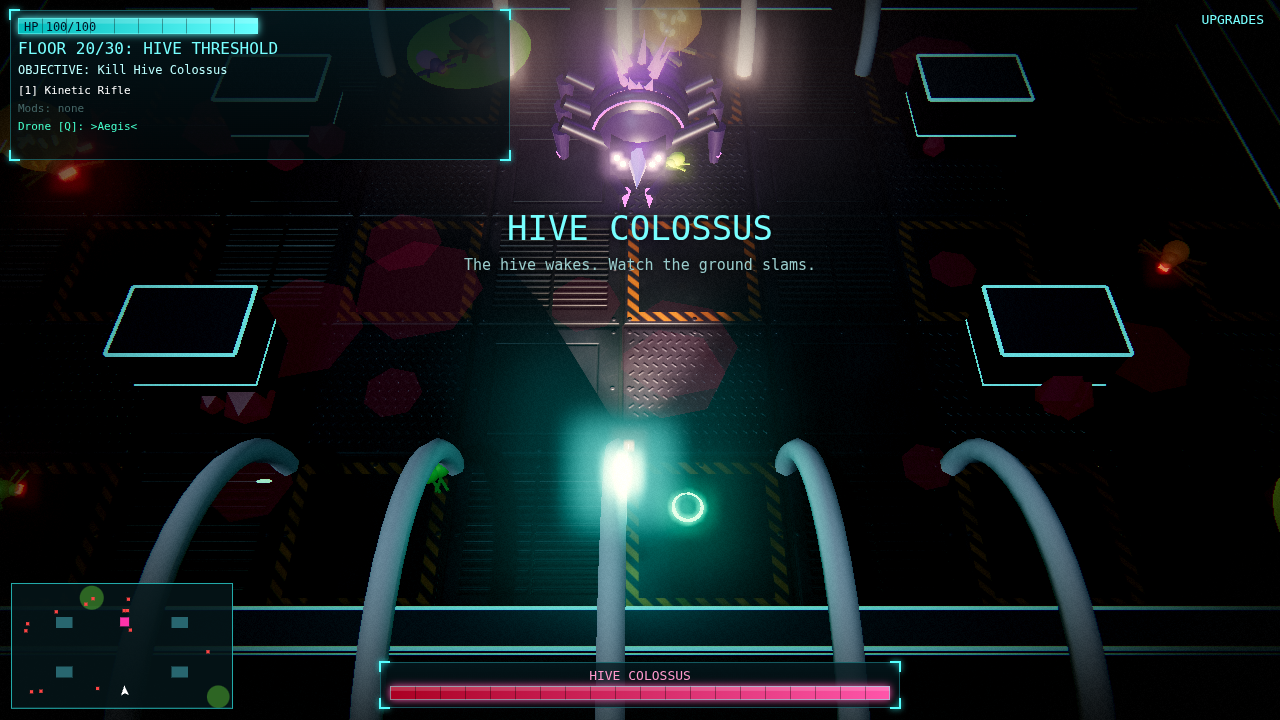
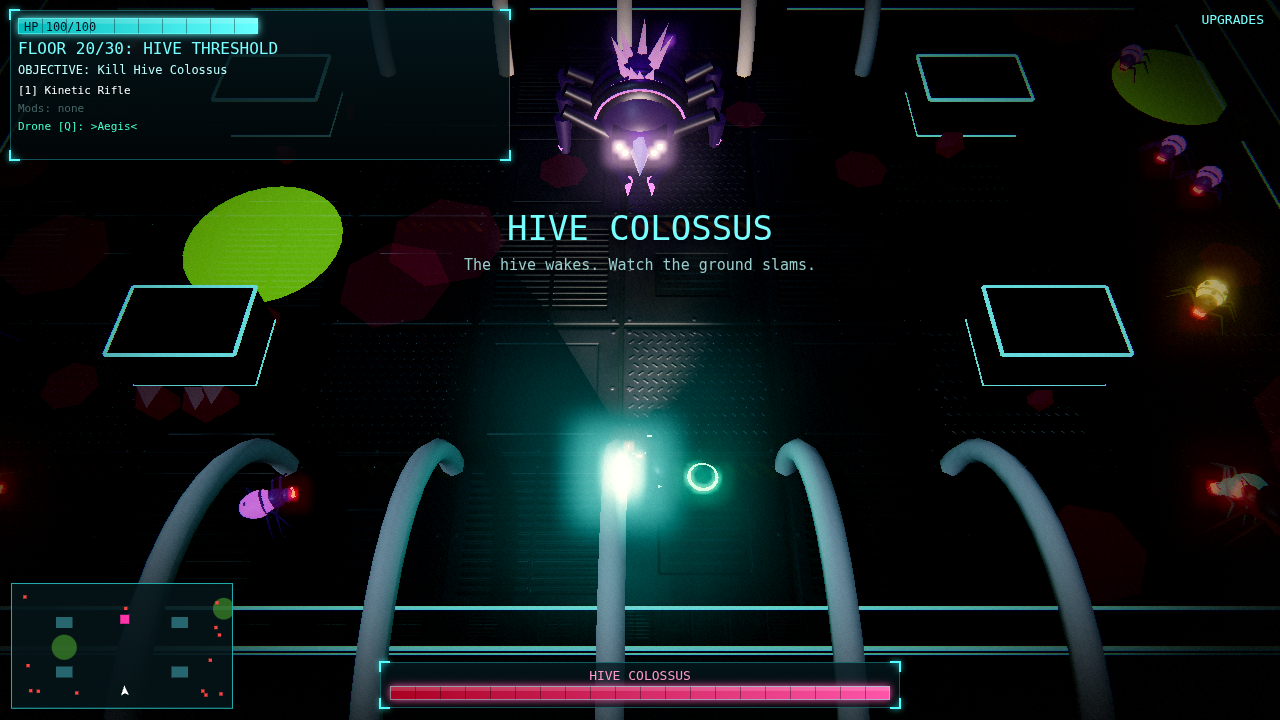
Visuals: after screenshots (+darksector/close before), ?gfx bench override, README Graphics section

diff --git a/index.html b/index.html
@@ -245,6 +245,7 @@ const DIFFS={easy:{name:'EASY',hp:.75,dmg:.6,count:.8,heal:1.6,boss:.8},normal:{
 // settings schema v2 (js/settings.js migrate): old/bad blobs are validated key-by-key and missing keys get defaults
 const CFG_DEF={vol:{master:.8,sfx:.8,music:.55},quality:'high',shake:true,diff:'normal',tut:true,cb:false,interact:'hold',autofire:false,endless:false,binds:{},pad:{}};
 const CFG=(()=>{let raw;try{raw=LS('tdp_cfg',{})}catch(e){raw={}}try{return TDP_SETTINGS.migrate(raw,CFG_DEF)}catch(e){console.warn('settings reset',e);return TDP_SETTINGS.migrate({},CFG_DEF)}})();
+{const gq=new URLSearchParams(location.search).get('gfx');if(gq==='low'||gq==='med'||gq==='high')CFG.quality=gq}// bench override (not persisted)
 const saveCfg=()=>LSset('tdp_cfg',CFG);
 // Endless Descent unlock (settings v3 flag); retroactive for players who already beat floor 30 before v3
 if(!CFG.endless&&(LS('tdp_best',{}).wins||0)>0)CFG.endless=true;

diff --git a/README.md b/README.md
@@ -109,3 +109,22 @@ Cycle run (6 cycles): before, geometries went 364 → 1548, listeners 35 → 47 
 - Shared resources are now in a `KEEP` set so disposal never touches them. The old floor is disposed one frame after the new floor has rendered, so shared shader programs are not recompiled.
 
 **Run it:** `tests/leakrun.sh TAG` runs both scenarios in parallel. It takes about 4 min, so run it in the background. Output goes to `/tmp/leak/TAG_full.txt`, `TAG_cycle.txt` and `TAG_summary.txt`. A single run: `node --experimental-websocket tests/leak.mjs 'leak.html#sc=full&diff=normal&cap=300&deaths=3' out.txt 40`. Add `&snap=after-floor@5,after-floor@30` to write heap snapshots to `/tmp/leak/`, then compare them with `python3 tests/heapdiff.py a.heapsnapshot b.heapsnapshot`. Add `&pn=1` to log live shader programs. `python3 tests/leaksum.py file…` prints the table.
+
+## Graphics
+
+Settings → Graphics Quality: **Low / Medium / High** (default High; `?gfx=low|med|high` URL override for benchmarking, not saved).
+
+| | Low | Medium | High |
+|---|---|---|---|
+| Floor/wall/top textures | flat colour (original) | procedural PBR (colour + normal + roughness) | same |
+| Boundary props (pipes, consoles, crates, barrels — instanced) | – | yes | yes |
+| Player flashlight (SpotLight) | – | yes | yes, with 1024px shadow map |
+| Colour grade, vignette, film grain, chromatic aberration + red edge on damage | – | yes | yes |
+| Splat-shaped blood/acid decals | – | yes | yes |
+| Creature detail (bent jointed legs, carapace ridges, spines, mandibles, antennae, chitin texture, brute shell plates) and marine kit (pauldrons, backpack, antenna, knee pads) | – | yes* | yes* |
+
+\*Creature/marine models are built at start-up; changing quality applies to them after a reload.
+
+Measured draw calls with ~148 enemies (headless SwiftShader perf harness): Low 114, Medium see below, High 177 (shadow pass).
+
+Credits: every texture, model and effect is generated procedurally in code (`js/visuals.js`, `index.html`) on top of Three.js r160 (MIT, bundled in `vendor/`). No external art assets. Before/after screenshots: `screens_visual/`, regenerate with `node --experimental-websocket tests/vshots.mjs <prefix> screens_visual/`.
